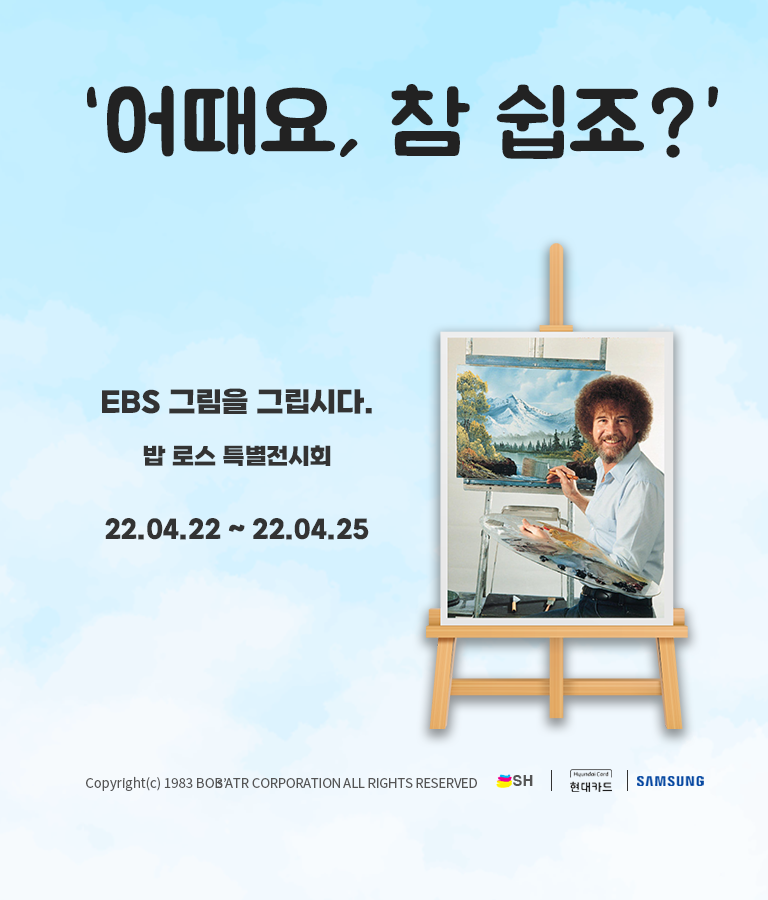
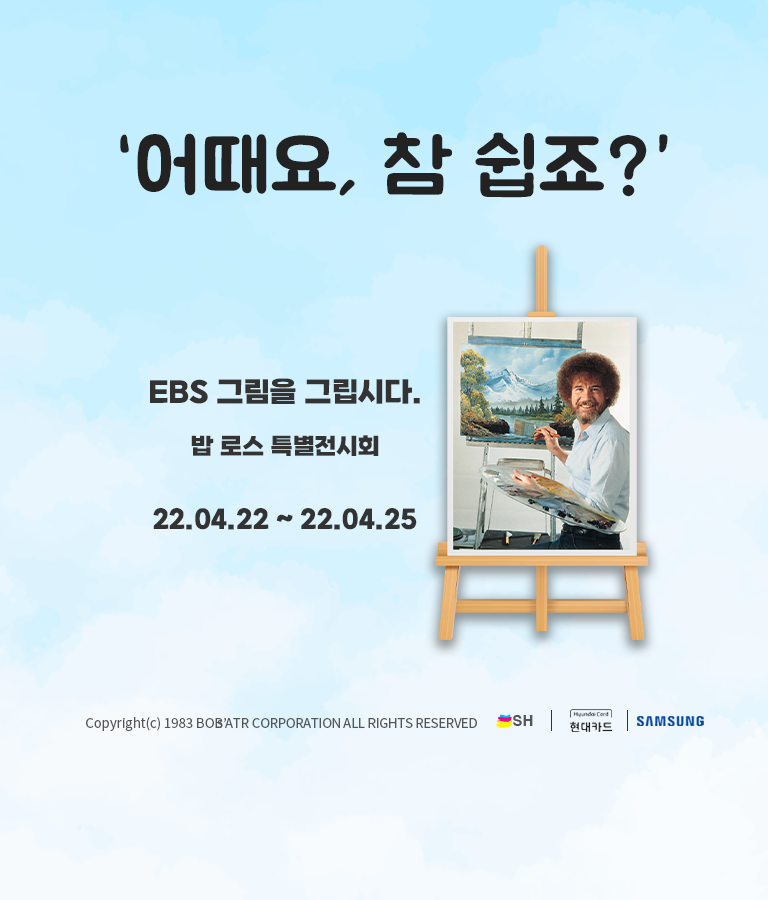
23.01.12
*변경점
story section 768 해상도 추가 수정
테블릿 스마트폰 크로스 브라우징 테스트

diff --git a/css/style.css b/css/style.css
@@ -912,10 +912,6 @@ nav {
   margin-right: 15px;
 }
 
-/* .sidemenu--closebtn--right:hover i {
-  color: #000;
-} */
-
 .sidemenu__subbtn i {
   font-size: var(--fs-30);
   color: var(--c-black);
@@ -1039,7 +1035,6 @@ nav {
   margin-bottom: 9px;
   font-family: 'LeferiPoint-WhiteObliqueA';
   line-height: 36px;
-  opacity: 1;
   background: linear-gradient(to right, #afcfff, #ff9f9d, #fff19f);
   -webkit-background-clip: text;
   -webkit-text-fill-color: transparent;
@@ -1049,8 +1044,7 @@ nav {
   color: var(--c-deepwhite);
   font-size: var(--fs-20);
   font-weight: var(--fw-300);
-  line-height: 25px;
-  opacity: 1;
+  line-height: 28px;
 }
 
 .sidemenu__banner--img {
@@ -1069,9 +1063,8 @@ nav {
 }
 
 
-
 /* right select */
-.sidemenu__languege--right {
+.sidemenu__language--right {
   display: flex;
   flex-flow: row nowrap;
   justify-content: space-evenly;
@@ -1079,12 +1072,12 @@ nav {
   padding: 25px 30px;
 }
 
-.sidemenu__languege--right a {
+.sidemenu__language--right a {
   color: var(--c-black);
   font-weight: var(--fw-500);
 }
 
-.sidemenu__languege--right span {
+.sidemenu__language--right span {
   width: 1px;
   height: 15px;
   background-color: var(--c-deepgray);
@@ -1120,6 +1113,13 @@ nav {
 .sidemenu__items--right.on .sidemenu__items--title .fa-minus {
   display: block;
 }
+
+.lang--text--right.active  {
+  color: var(--c-blue2);
+}
+
+
+
 
 /* close btn */
 .sidemenu--close {
@@ -1323,10 +1323,7 @@ nav {
 }
 
 .slidebg a {
-  position: absolute;
-  top: 0;
-  left: 95px;
-  width: calc(100% - 190px);
+  width: 100%;
   height: 100%;
   background-color: transparent;
 }

diff --git a/js/main.js b/js/main.js
@@ -346,6 +346,15 @@ sidemenu_M_closeRight.addEventListener('click', () => {
   document.body.style.overflow = 'auto';
   sidemenu_M_bg.classList.remove('fade');
   sidemenu_M_bg.classList.remove('active');
+  sidemenu_M_navItems.forEach((items) => {
+    items.classList.remove('on');
+  });
+  sidemenu_M_navGroup.forEach((items) => {
+    items.style.maxHeight = ('0px');
+    setTimeout(function (){
+      items.style.display = ('none');
+    },390);        
+  });  
 });
 
 // sidemenu search message 
@@ -393,7 +402,15 @@ for (let i = 0; i < sidemenu_M_navItems.length; i++) {
 }
 
 // sidemenu 'right' language title active
-
+const sidemenu_M_language = document.querySelectorAll('.lang--text--right');
+for(let i = 0; i < sidemenu_M_language.length; i++) {
+  sidemenu_M_language[i].addEventListener('click', () => {
+    sidemenu_M_language.forEach((items) =>{
+      items.classList.remove('active');
+    });
+    sidemenu_M_language[i].classList.add('active');
+  });
+}
 
 
 // Side menu events due to window reset
@@ -616,17 +633,21 @@ const options = {
   threshold: .4,
 }
 const observer = new IntersectionObserver(entries => {
+
   entries.forEach(entry => {
     if (entry.isIntersecting) {
       entry.target.classList.add("active");
     }
   });
 }, options);
+
 const titleList = document.querySelectorAll('.observer');
 titleList.forEach(el => observer.observe(el));
 
 
-// 반드시 지울것 새로고침 시 상단 이동 코드임🎈
+
+
+// 반드시 지울것 = 새로고침 시 상단 이동 코드임🎈
 // *** browser refresh ***
 
 // window.onload = function () {

diff --git a/index.html b/index.html
@@ -449,8 +449,8 @@
                   <a href="javascript:;" class="sidemenu__banner--box">
                     <div class="sidemenu__banner--text">
                       <strong>선인아트몰</strong>
-                      <p>입문자는 손쉽게, 숙련자는 특별하게</p>
-                      <p>선인화구만의 스타일을 지금 만나보세요.</p>
+                      <p>입문자는 손쉽게</p>
+                      <p>숙련자는 특별하게</p>
                     </div>
                     <div class="sidemenu__banner--img">
                       <img src="./images/header/sidemenu/mobile/link_banner.png" alt="선인아트몰 이미지">
@@ -462,10 +462,10 @@
                 </div>
                 <!-- 외부 링크 select -->
                 <div class="sidemenu__select--right">
-                  <div class="sidemenu__languege--right">
-                    <a href="javascript:;" class="lang--text-right active">KOR</a>
+                  <div class="sidemenu__language--right">
+                    <a href="javascript:;" class="lang--text--right active">KOR</a>
                     <span></span>
-                    <a href="javascript:;" class="lang--text-right">ENG</a>
+                    <a href="javascript:;" class="lang--text--right">ENG</a>
                   </div>
                   <div class="sidemenu__family--right">
                     <select name="패밀리 사이트 바로가기" id="sidemenu--family" onchange="window.open(value,'_blink')">

diff --git a/css/size.css b/css/size.css
@@ -466,7 +466,7 @@
   }
 
   .sidemenu__gnb {
-    display: inline-block;
+    /* display: inline-block; */
     width: 100%;
     overflow-y: auto;
   }
@@ -583,6 +583,18 @@
 @media screen and (max-width: 768px) {
   .se--title {
     font-size: 25px;
+  }
+
+  .more--btn {
+    display: none;
+  }
+
+  .navi-next {
+    display: none;
+  }
+
+  .navi-prev {
+    display: none;
   }
 
   /* header */
@@ -703,16 +715,70 @@
   }
 
   /* story */
+  #story {
+    margin: 85px 0 90px;
+  }
+  
+  #story.observer .se--title {
+    opacity: 1;
+    transform: translateY(0%);
+  }
+
+  .swiper-story-box {
+    width: 100%;
+    height: calc(100vh - 60px);
+    margin-top: 30px;
+  }
+
+
   #story.observer .mySwiper-story {
     width: 100%;
   }
+
+  #story .text--box {
+    width: 83%;
+    top: 60%;
+    left: auto;
+    right: auto;
+  }
+
+  #story .text--box span {
+    font-size: 20px;
+    margin-bottom: 20px;
+  }
+  #story .text--box strong{
+    font-size: 28px;
+    font-weight: bold;
+    margin-bottom: 25px;
+  }
+  #story .text--box p{
+    font-size: 16px;
+  }
+
+  #story .text--box p br{
+    display: none;
+  }
+
 
   /* collection */
   #collection .nextbox {
     display: none;
   }
 
+  #collection.observer .se--title {
+    opacity: 1;
+    transform: translateY(0px);
+  }
   
+  #collection.observer .tab__text {
+    opacity: 1;
+    transform: translateY(0px);
+  }
+
+  #collection.observer .tab__swiper .swiper {
+    opacity: 1;
+    transform: translateY(0px);
+}
 
 
 }
